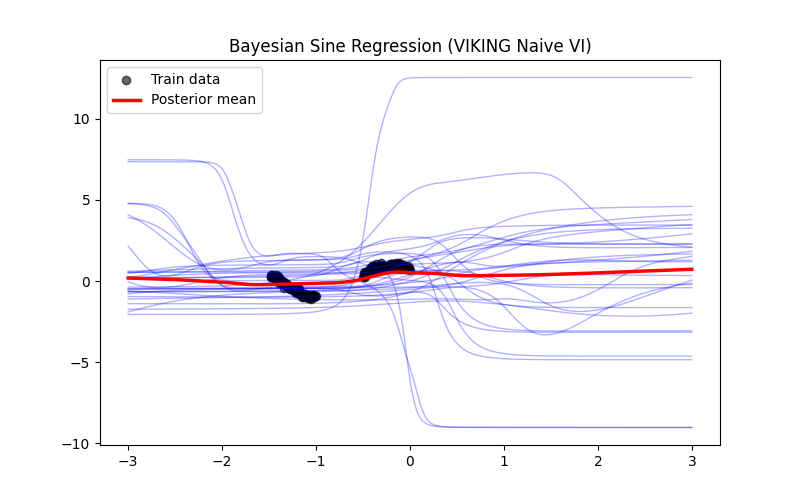
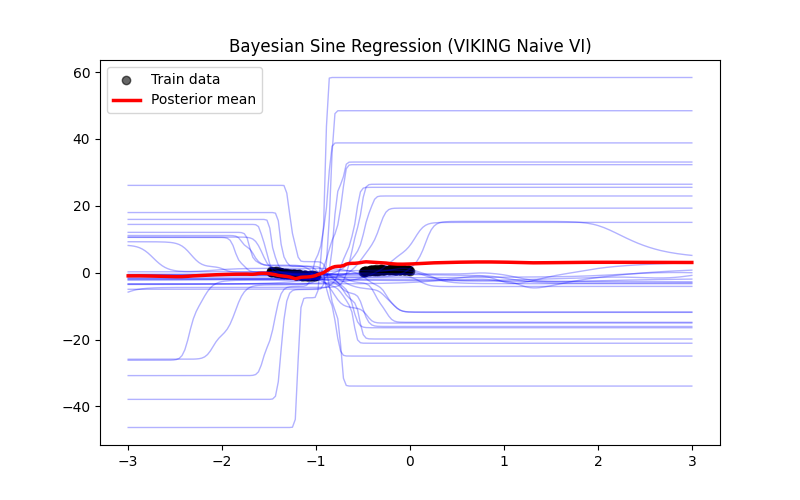
KL randomly becomes negative, convrgence is not happening, huge numbers for all ELBO terms

diff --git a/experiments/VIKING_sine_curve.py b/experiments/VIKING_sine_curve.py
@@ -15,7 +15,7 @@ from src.plotting.naive_sine_plots import plot_bayesian_samples_with_mean, plot_
 
 N = 150
 SEED = 42
-NOISE_VAR = 0.01
+NOISE_VAR = 0.96
 
 # 1. Calculation of the projection matrix UUt derived from the GGN
 def calculate_UUt(model_fn, params_vec, x_train, y_train):
@@ -77,7 +77,7 @@ def KL_term(prior_vec, theta_hat, sigma_ker, sigma_im, eps_samples, eps_ker_samp
 
     # Calculate Tr(Σ_p^{-1} Σ)
     trace_products = hadamard_eps @ prior_vec_inv # (num_samples, 1)
-    trace = ((sigma_ker_2 - sigma_im_2) / num_samples) * jnp.sum(trace_products)
+    trace = ((sigma_ker_2 - sigma_im_2) / num_samples) * jnp.sum(trace_products) + sigma_im_2 * jnp.sum(prior_vec_inv)
 
     # Quadratic term (theta^T Σ_p^{-1} theta)
     hadamard_theta = jnp.square(theta_hat)
@@ -118,7 +118,7 @@ def loss_fn(params_opt, model_fn_vec, UUt, x, y, sample_key, prior_vec):
 
     elbo = rec_term - kl
     
-    return -elbo
+    return -elbo, (rec_term, kl)
 
 
 def main():
@@ -139,8 +139,8 @@ def main():
     prior_vec = jax.random.normal(prior_key, (params_vec.shape[0],))**2 # Vector of prior covariance diagonal values, sigmas squared
 
     sigma_kernel_key, sigma_image_key = jax.random.split(jax.random.PRNGKey(SEED))
-    sigma_kernel = jax.random.normal(sigma_kernel_key)
-    sigma_image = jax.random.normal(sigma_image_key)
+    sigma_kernel = jnp.exp(jax.random.normal(sigma_kernel_key))
+    sigma_image = jnp.exp(jax.random.normal(sigma_image_key))
     _, sample_key = jax.random.split(jax.random.PRNGKey(SEED))
 
     params_opt = {
@@ -163,13 +163,13 @@ def main():
     @jax.jit
     def train_step(params_opt, opt_state, UUt, key):
         key, subkey = jax.random.split(key)
-        grad_fn = jax.value_and_grad(loss_fn, argnums=0)
-        loss, grads = grad_fn(
+        grad_fn = jax.value_and_grad(loss_fn, argnums=0, has_aux=True)
+        (loss, (rec_term, kl)), grads = grad_fn(
             params_opt, model_fn_vec, UUt, x_train, y_train, subkey, prior_vec
         )
         updates, opt_state = optimizer.update(grads, opt_state)
         params_opt = optax.apply_updates(params_opt, updates)
-        return loss, params_opt, opt_state
+        return loss, params_opt, opt_state, rec_term, kl
     
     jit_train_step = jax.jit(train_step)
     num_epochs = 1000  # or however many you want
@@ -183,12 +183,13 @@ def main():
         training_key, subkey = jax.random.split(training_key)
 
         UUt = calculate_UUt(model_fn_vec, params_opt_current["theta"], x_train, y_train)
-        loss, params_opt_current, opt_state_current = jit_train_step(
+        loss, params_opt_current, opt_state_current, rec_term, kl = jit_train_step(
             params_opt_current, opt_state_current, UUt, subkey
         )
 
         if epoch % log_every == 0 or epoch == num_epochs - 1:
             print(f"[Epoch {epoch}] Loss (-ELBO): {loss:.4f}")
+            print(f"Rec term = {rec_term:.4f} ||| KL Term = {kl:.4f}")
 
 
     x_test = jnp.linspace(-3, 3, 200).reshape(-1, 1)

diff --git a/src/test.py b/src/test.py
@@ -1,0 +1,10 @@
+import pickle
+
+# Load model, extract params...
+with open("./checkpoints/sine_VIKING.pickle", "rb") as f:
+    checkpoint = pickle.load(f)
+
+elbo_stats = checkpoint["elbo_params"]
+
+print(f"Sigma_ker = {elbo_stats["sigma_ker"]}")
+print(f"Sigma_im = {elbo_stats["sigma_im"]}")
